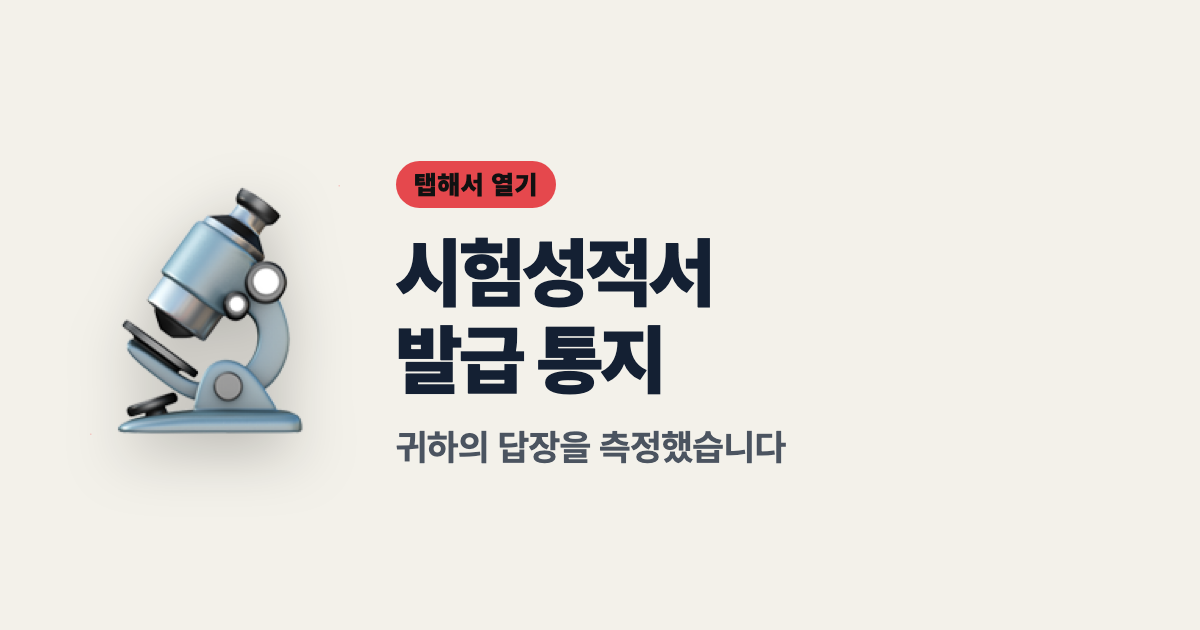
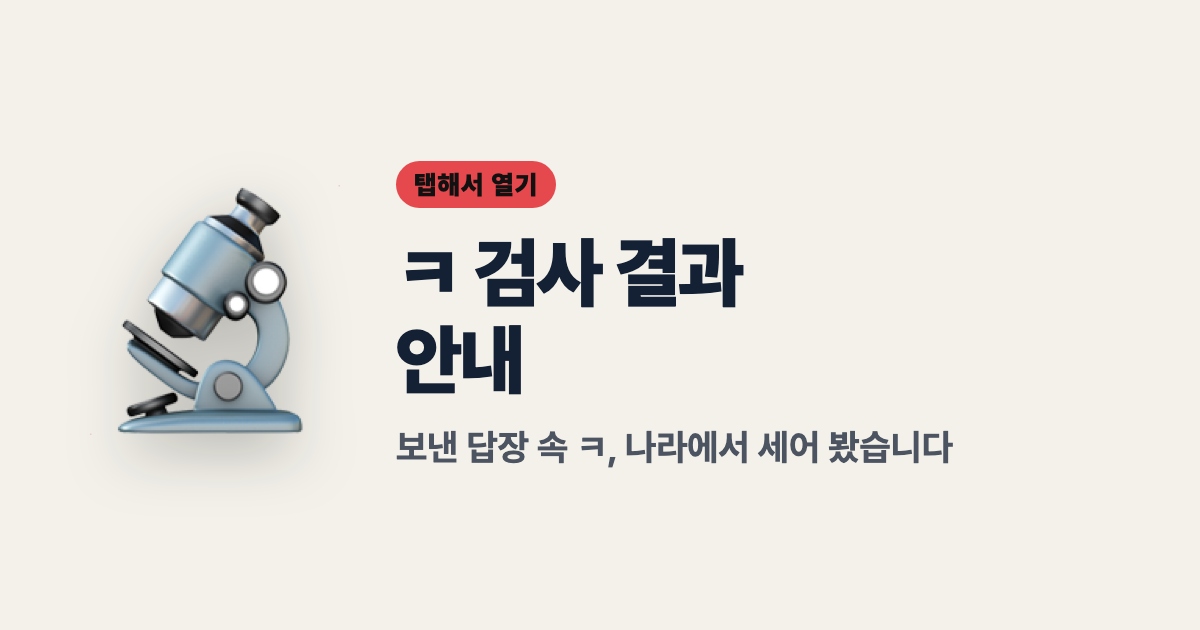
ㅋ 국가표준원: 번역투 문구를 자연스러운 한국말로(시료·혼입·권고 등 제거)

Changed region(s): [[0.3083, 0.3619, 0.6167, 0.6333], [0.3083, 0.6635, 0.8017, 0.754]]

diff --git a/apps/kkk-standard/index.html b/apps/kkk-standard/index.html
@@ -4,9 +4,9 @@
 <meta charset="utf-8">
 <meta name="viewport" content="width=device-width,initial-scale=1,viewport-fit=cover,user-scalable=no">
 <title>ㅋ 국가표준원</title>
-<meta name="description" content="친구가 보낸 ㅋ의 개수를 국가표준으로 판정합니다.">
-<meta property="og:title" content="ㅋ 국가표준원 시험성적서 발급 통지">
-<meta property="og:description" content="귀하의 답장이 시료로 접수되어 측정을 마쳤습니다.">
+<meta name="description" content="친구가 보낸 ㅋ, 나라에서 세어 드립니다.">
+<meta property="og:title" content="ㅋ 국가표준원 검사 결과 안내">
+<meta property="og:description" content="보낸 답장 속 ㅋ, 나라에서 세어 봤습니다.">
 <meta property="og:image" content="https://brooksglobal.github.io/useless-things/apps/kkk-standard/og.png">
 <link rel="stylesheet" href="https://cdn.jsdelivr.net/gh/orioncactus/pretendard@v1.3.9/dist/web/static/pretendard.min.css">
 <link rel="stylesheet" href="https://fonts.googleapis.com/css2?family=Nanum+Myeongjo:wght@700;800&display=swap">
@@ -117,13 +117,13 @@ body.shake .paper{animation:shk .2s linear}
 <script src="../_shared/kit.js"></script>
 <script>
 const GRADES = [
-  { id:'0', range:'0개', name:'정색', act:'분위기 파악', note:'ㅋ이 검출되지 않았습니다. 국가표준상 정색으로 분류됩니다. 분위기 파악을 권고합니다.' },
-  { id:'1', range:'1개', name:'분노', act:'즉시 사과', note:'국가표준상 분노로 분류됩니다. 사과를 권고합니다.' },
-  { id:'2', range:'2개', name:'예의상', act:'농담 교체', note:'국가표준상 예의상 웃음으로 분류됩니다. 같은 농담의 재사용을 금지합니다.' },
-  { id:'3', range:'3~5개', name:'보통', act:'현행 유지', note:'국가표준상 보통 웃음으로 분류됩니다. 현재 수준의 유머를 유지하십시오.' },
-  { id:'6', range:'6~10개', name:'진심', act:'유머 자산 등록', note:'국가표준상 진심으로 분류됩니다. 해당 농담을 국가 유머 자산으로 등록할 것을 권고합니다.' },
-  { id:'11', range:'11개 이상', name:'바닥 구르는 중', act:'주변 가구 정리', note:'시료 제공자는 현재 바닥을 구르고 있는 것으로 판정됩니다. 주변 가구에 유의하십시오.' },
-  { id:'h', range:'ㅎ 혼입', name:'거리 두기', act:'친밀도 점검', note:'ㅎ이 섞인 웃음은 국가표준상 거리 두기로 분류됩니다. 친밀도 재점검을 권고합니다.' },
+  { id:'0', range:'0개', name:'정색', act:'눈치 챙기기', note:'ㅋ이 한 개도 없습니다. 정색입니다. 눈치 챙기세요.' },
+  { id:'1', range:'1개', name:'화남', act:'당장 사과', note:'ㅋ 하나는 웃은 게 아닙니다. 화난 겁니다. 당장 사과하세요.' },
+  { id:'2', range:'2개', name:'예의상', act:'드립 버리기', note:'예의상 웃어 준 겁니다. 그 드립은 버리세요.' },
+  { id:'3', range:'3~5개', name:'보통', act:'이대로', note:'적당히 웃었습니다. 지금처럼만 하세요.' },
+  { id:'6', range:'6~10개', name:'진짜 웃김', act:'드립 저장', note:'진짜 웃었습니다. 그 드립은 저장해 두세요.' },
+  { id:'11', range:'11개 이상', name:'뒤집어짐', act:'모서리 조심', note:'지금 바닥을 구르고 있습니다. 모서리 조심하세요.' },
+  { id:'h', range:'ㅎ 섞임', name:'선 긋는 중', act:'사이 점검', note:'ㅎ이 섞이면 선 긋는 웃음입니다. 우리 사이부터 점검하세요.' },
 ];
 const KV = 'ㅡㅜㅠㅣ';
 function measure(s){
@@ -143,13 +143,13 @@ function measure(s){
 K.start({
   parse: a => ({ to: K.str(a[0], '친구', 10), rep: K.str(a[1], 'ㅋ', 40), fr: K.str(a[2], '나', 10) }),
   make: () => K.maker({
-    kicker: '웃음계량과', title: 'ㅋ 국가표준원', sub: '친구가 보낸 ㅋ의 개수를 국가표준으로 판정합니다.',
+    kicker: '웃음검사과', title: 'ㅋ 국가표준원', sub: '친구가 보낸 ㅋ, 나라에서 세어 드립니다.',
     fields: [
       { k: 'to', label: '친구 이름', ph: '영집', max: 10, def: '친구' },
       { k: 'rep', label: '친구가 보낸 답장', ph: 'ㅋ', max: 40, def: 'ㅋ', val: 'ㅋ', hint: '예: ㅋ / ㅋㅋㅋ / ㅎㅎ / ㅋㅋㅋㅋㅋㅋㅋㅋㅋㅋㅋㅋ' },
       { k: 'fr', label: '보내는 사람', ph: '현우', max: 10, def: '나' },
     ],
-    btn: '시험성적서 링크 만들기',
+    btn: '검사 결과 링크 만들기',
     toArr: v => [v.to, v.rep, v.fr],
   }),
   show,
@@ -159,16 +159,16 @@ function show(d){
   const M = measure(d.rep), no = 'ㅋ-' + new Date().getFullYear() + '-' + String(1000 + (d.rep.length * 7919 + d.to.length * 104729) % 9000).padStart(4, '0');
   const S = K.josa(d.to, '이', '가');
   document.getElementById('app').innerHTML =
-    '<div id="gate"><div class="note"><div class="nh"><span class="emb">ㅋ</span><div><b>ㅋ 국가표준원</b><small>웃음계량과 · 시험성적서 발급 통지</small></div></div><div class="nb">' +
-    '<h3>시료 측정이 완료되었습니다</h3>' +
-    '<p class="row"><b>접수 번호</b><span>' + no + '</span></p><p class="row"><b>의뢰인</b><span>' + K.esc(d.fr) + '</span></p><p class="row"><b>시료</b><span>' + K.esc(d.to) + '님의 답장 1건</span></p><p class="row"><b>시험 항목</b><span>ㅋ 함량, ㅎ 혼입 여부, 감정 등급</span></p>' +
-    '<p class="t">' + K.esc(d.to) + '님' + '이 보낸 답장의 웃음 함량에 대하여 국가표준에 따른 정밀 측정을 실시하였습니다.</p>' +
-    '<button class="gbtn" id="enter">측정 과정 보기</button></div></div></div>' +
-    '<div id="lab"><div id="top"><span class="emb">ㅋ</span><div><b>ㅋ 국가표준원</b><small>웃음계량과 제1측정실</small></div><span class="rec"><i></i>측정 중</span></div>' +
-    '<div id="dev"><div class="lb"><span>ㅋ 계수기 KC-9000</span><span>POWER<i class="led" id="led"></i></span></div>' +
-    '<div id="bed"><span class="who" id="who">시료: ' + K.esc(d.to) + '님의 답장</span><div id="bub"' + (M.n <= 3 ? ' style="font-size:60px;padding:8px 22px"' : M.n <= 8 ? ' style="font-size:40px"' : '') + '>' + M.cs.map(c => /\s/.test(c) ? ' ' : '<span>' + K.esc(c) + '</span>').join('') + '</div><div id="laser"></div></div>' +
-    '<div id="lcds"><div class="lcd"><small>ㅋ 검출</small><b id="lk">00</b></div><div class="lcd" id="lhw"><small>ㅎ 혼입</small><b id="lh">0</b></div><div class="lcd"><small>ㅋ 순도</small><b id="lp">0.0%</b></div></div></div>' +
-    '<div id="tbl"><h4>웃음 표준 등급표<small>ㅋ표준 제0001호</small></h4><table><tr><th>ㅋ 개수</th><th>등급</th><th>권고 조치</th></tr>' +
+    '<div id="gate"><div class="note"><div class="nh"><span class="emb">ㅋ</span><div><b>ㅋ 국가표준원</b><small>웃음검사과 · 검사 결과 안내</small></div></div><div class="nb">' +
+    '<h3>검사가 끝났습니다</h3>' +
+    '<p class="row"><b>접수 번호</b><span>' + no + '</span></p><p class="row"><b>맡긴 사람</b><span>' + K.esc(d.fr) + '</span></p><p class="row"><b>검사한 답장</b><span>' + K.esc(d.to) + '님 답장 1건</span></p><p class="row"><b>검사 항목</b><span>ㅋ 개수, ㅎ 섞임, 진짜 웃었는지</span></p>' +
+    '<p class="t">' + K.esc(d.fr) + '님이 맡긴 ' + K.esc(d.to) + '님 답장, 진짜 웃은 건지 나라에서 한 글자씩 세어 봤습니다.</p>' +
+    '<button class="gbtn" id="enter">검사 과정 보기</button></div></div></div>' +
+    '<div id="lab"><div id="top"><span class="emb">ㅋ</span><div><b>ㅋ 국가표준원</b><small>웃음검사과 제1검사실</small></div><span class="rec"><i></i>검사 중</span></div>' +
+    '<div id="dev"><div class="lb"><span>ㅋ 세는 기계 KC-9000</span><span>POWER<i class="led" id="led"></i></span></div>' +
+    '<div id="bed"><span class="who" id="who">검사 중: ' + K.esc(d.to) + '님 답장</span><div id="bub"' + (M.n <= 3 ? ' style="font-size:60px;padding:8px 22px"' : M.n <= 8 ? ' style="font-size:40px"' : '') + '>' + M.cs.map(c => /\s/.test(c) ? ' ' : '<span>' + K.esc(c) + '</span>').join('') + '</div><div id="laser"></div></div>' +
+    '<div id="lcds"><div class="lcd"><small>ㅋ 개수</small><b id="lk">00</b></div><div class="lcd" id="lhw"><small>ㅎ 섞임</small><b id="lh">0</b></div><div class="lcd"><small>진심도</small><b id="lp">0.0%</b></div></div></div>' +
+    '<div id="tbl"><h4>웃음 등급표<small>ㅋ표준 제0001호</small></h4><table><tr><th>ㅋ 개수</th><th>등급</th><th>할 일</th></tr>' +
     GRADES.map(g => '<tr data-g="' + g.id + '"><td>' + g.range + '</td><td>' + g.name + '<em>해당</em></td><td>' + g.act + '</td></tr>').join('') + '</table></div></div>' +
     '<div id="cert"></div>';
   K.footer({ dark: false });
@@ -189,7 +189,7 @@ async function run(d, M, no){
   const kinds = M.kinds.filter((x, i) => !/\s/.test(M.cs[i]));
   const passes = spans.length <= 3 ? 3 : 1;
   for (let ps = 0; ps < passes; ps++) {
-  if (ps) { idx = 0; K.$('#who').textContent = '오차 확인을 위한 교차 측정 ' + (ps + 1) + '/' + passes; las.classList.add('on'); K.tone(55, .9, { type: 'sawtooth', vol: .05 }); }
+  if (ps) { idx = 0; K.$('#who').textContent = '혹시 몰라 다시 세는 중 ' + (ps + 1) + '/' + passes; las.classList.add('on'); K.tone(55, .9, { type: 'sawtooth', vol: .05 }); }
   for (const sp of spans) {
     const r = sp.getBoundingClientRect();
     las.style.left = (r.right - br.left + 1) + 'px'; las.style.top = (r.top - br.top - 4) + 'px'; las.style.height = (r.height + 8) + 'px';
@@ -204,7 +204,7 @@ async function run(d, M, no){
   }
   if (passes > 1) { las.classList.remove('on'); spans.forEach(x => x.classList.remove('hit', 'hh')); await S(220); }
   }
-  if (passes > 1) { K.$('#who').textContent = '교차 측정 3회 일치. 측정값 확정'; spans.forEach((x, i) => kinds[i] === 'k' ? x.classList.add('hit') : kinds[i] === 'h' && x.classList.add('hh')); }
+  if (passes > 1) { K.$('#who').textContent = '세 번 세도 똑같습니다. 확정'; spans.forEach((x, i) => kinds[i] === 'k' ? x.classList.add('hit') : kinds[i] === 'h' && x.classList.add('hh')); }
   las.classList.remove('on');
   K.tone(1568, .25, { type: 'square', vol: .1 }); K.tone(1568, .25, { type: 'square', vol: .1, at: .3 });
   await S(800);
@@ -224,11 +224,11 @@ async function run(d, M, no){
   await S(1900);
   // 성적서
   const c = K.$('#cert'), now = new Date(), dt = now.getFullYear() + '. ' + (now.getMonth() + 1) + '. ' + now.getDate() + '.';
-  c.innerHTML = '<div class="paper"><div class="org"><span class="emb">ㅋ</span>ㅋ 국가표준원<span class="no">성적서 번호 ' + no + '</span></div>' +
-    '<h2>시험성적서</h2><dl><dt>의뢰인</dt><dd>' + K.esc(d.fr) + '</dd><dt>시료</dt><dd>' + K.esc(d.to) + '님의 답장 「' + K.esc(d.rep.length > 16 ? d.rep.slice(0, 16) + '…' : d.rep) + '」</dd><dt>시험 방법</dt><dd>ㅋ표준 제0001호 (기계 계수)</dd><dt>시험 일자</dt><dd>' + dt + '</dd></dl>' +
-    '<div class="res"><div><small>ㅋ 함량</small><b>' + M.k + '개</b></div><div><small>ㅎ 혼입</small><b>' + M.h + '개</b></div><div><small>측정 불확도</small><b>±0개</b></div></div>' +
+  c.innerHTML = '<div class="paper"><div class="org"><span class="emb">ㅋ</span>ㅋ 국가표준원<span class="no">결과서 번호 ' + no + '</span></div>' +
+    '<h2>웃음 검사 결과서</h2><dl><dt>맡긴 사람</dt><dd>' + K.esc(d.fr) + '</dd><dt>검사한 답장</dt><dd>' + K.esc(d.to) + '님 답장 「' + K.esc(d.rep.length > 16 ? d.rep.slice(0, 16) + '…' : d.rep) + '」</dd><dt>검사 방법</dt><dd>기계로 한 글자씩 셈</dd><dt>검사 날짜</dt><dd>' + dt + '</dd></dl>' +
+    '<div class="res"><div><small>ㅋ 개수</small><b>' + M.k + '개</b></div><div><small>ㅎ 섞임</small><b>' + M.h + '개</b></div><div><small>오차</small><b>±0개</b></div></div>' +
     '<div class="verdict"><small>판 정</small><b id="vb">' + M.g.name + '</b></div><p class="rmk" id="rmk">' + M.g.note + '</p>' +
-    '<p class="sign"><small>위 시험 결과를 증명합니다.</small>ㅋ 국가표준원장<span id="stamp">ㅋ국가<br>표준원<br>장인</span></p></div>';
+    '<p class="sign"><small>위 결과가 틀림없음을 확인합니다.</small>ㅋ 국가표준원장<span id="stamp">ㅋ국가<br>표준원<br>직인</span></p></div>';
   c.classList.add('on'); K.noise(.3, { hp: 1500, vol: .25 });
   await S(900);
   K.$('#vb').classList.add('on'); K.boom({ vol: .6, f: 140 });
@@ -237,7 +237,7 @@ async function run(d, M, no){
   await S(1300);
   K.$('#stamp').classList.add('on'); setTimeout(() => { K.boom({ vol: .9, f: 90 }); K.vibe(40); document.body.classList.remove('shake'); void document.body.offsetWidth; document.body.classList.add('shake'); }, 240);
   await S(1500);
-  K.again({ replayText: '재측정 요청', makeText: '나도 측정 의뢰하기' });
+  K.again({ replayText: '다시 세어 주세요', makeText: '나도 검사 맡기기' });
 }
 </script>
 </body>
